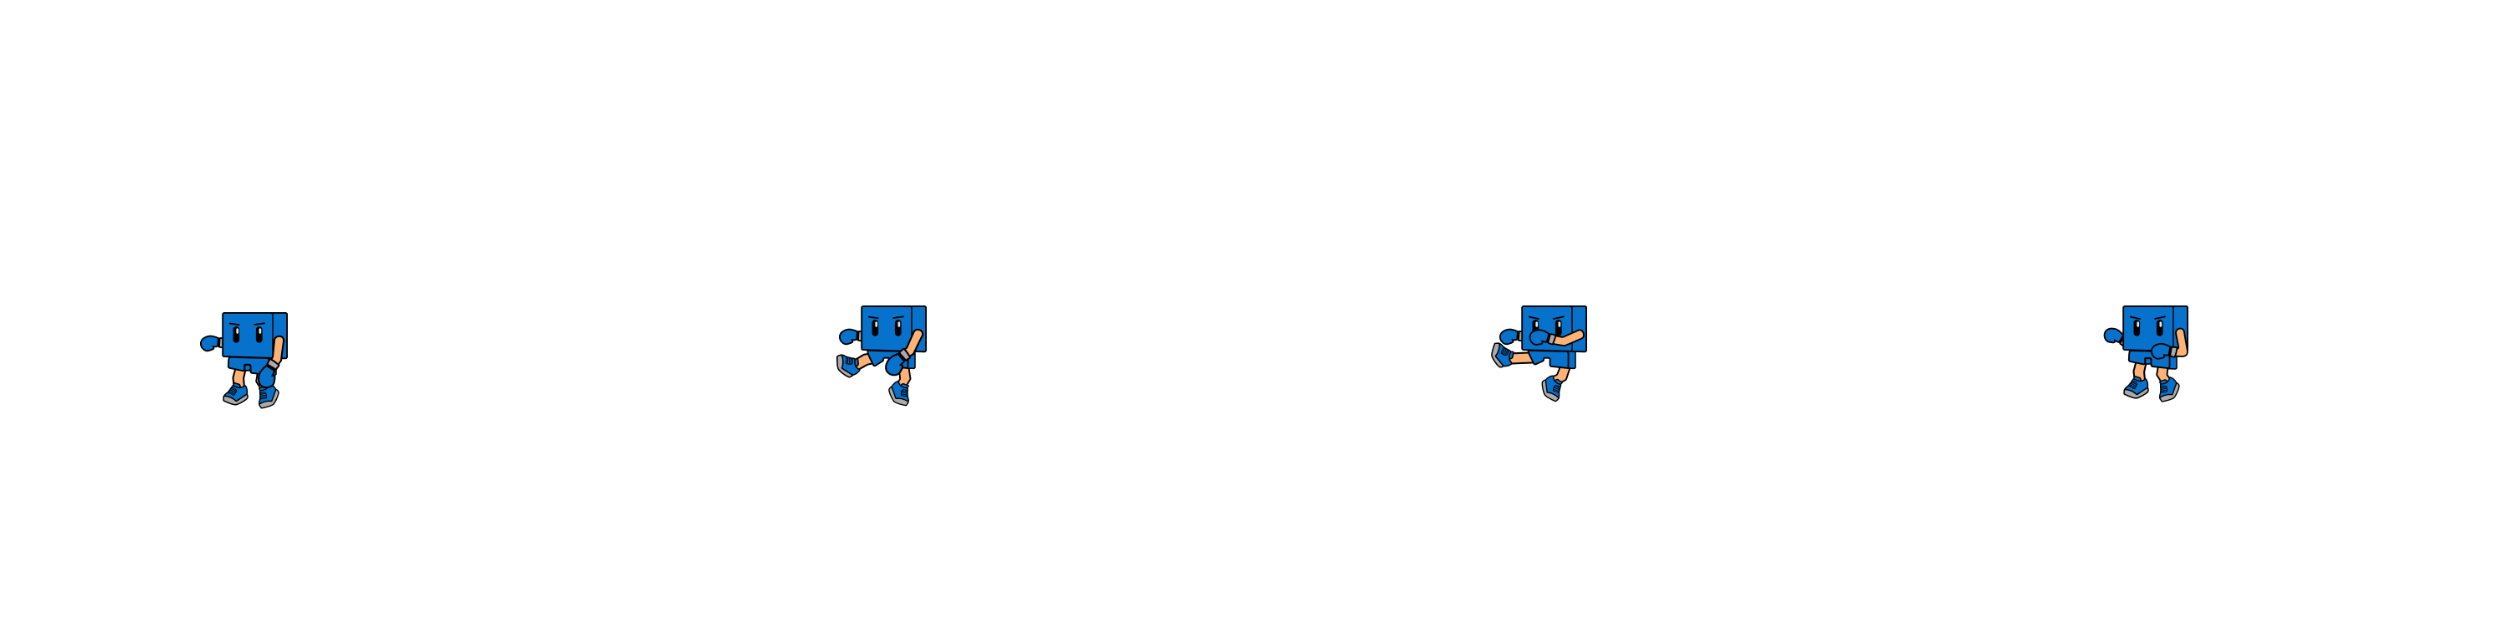
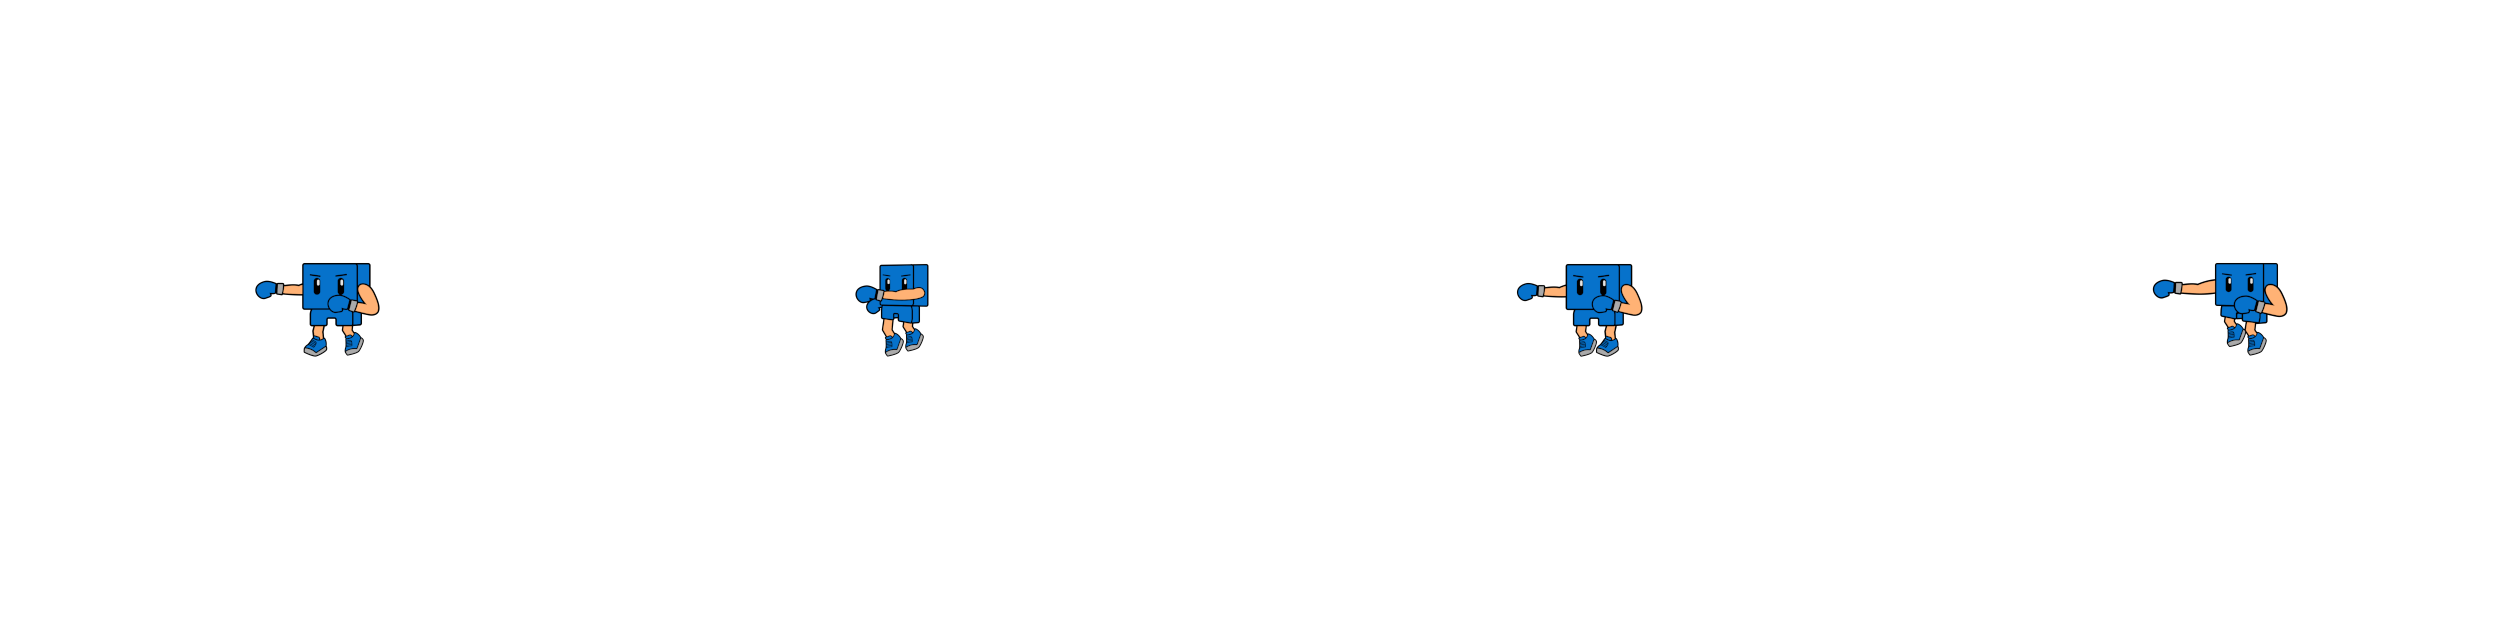
Change sprites to bigger arms

diff --git a/website/index.js b/website/index.js
@@ -149,8 +149,8 @@ const player = new Fighter({
             framesMax: 2
         },
         attack1: {
-            imageSrc: './static/img/zerto/UppercutCross.png',
-            framesMax: 6
+            imageSrc: './static/img/zerto/AtaqueR.png',
+            framesMax: 4
         },
         attack2: {
             imageSrc: './static/img/zerto/Attack2.png',
@@ -169,7 +169,7 @@ const player = new Fighter({
             framesMax: 6
         },
         uppercut: {
-            imageSrc: './static/img/zerto/UppercutCross.png',
+            imageSrc: './static/img/zerto/UpperCutCross.png',
             framesMax: 6
         }
     },
@@ -218,7 +218,7 @@ const enemy = new Fighter({
             framesMax: 2
         },
         attack1: {
-            imageSrc: './static/img/kenji/Attack1.png',
+            imageSrc: './static/img/kenji/Ataque.png',
             framesMax: 4
         },
         attack2: {
@@ -238,7 +238,7 @@ const enemy = new Fighter({
             framesMax: 6
         },
         uppercut: {
-            imageSrc: './static/img/kenji/UppercutCross.png',
+            imageSrc: './static/img/kenji/UpperCutCross.png',
             framesMax: 6
         }
     },
@@ -275,7 +275,6 @@ function animate(timestamp) {
     window.requestAnimationFrame(animate);
     const deltaTime = timestamp - lastTime;
 
-    console.log(deltaTime);
     if (deltaTime >= timeStep) {
         lastTime = timestamp;
 
@@ -487,9 +486,9 @@ function enemyAI() {
         }
 
         // Occasionally jump
-        if (Math.random() < 0.02 && enemy.position.y >= canvas.height - 96 - enemy.height) { // Check if on ground
-            enemy.velocity.y = -15; // Trigger jump
-        }
+        // if (Math.random() < 0.02 && enemy.position.y >= canvas.height - 96 - enemy.height) { // Check if on ground
+        //     enemy.velocity.y = -15; // Trigger jump
+        // }
 
         // Attack and block logic
         if (!enemy.isAttacking && Math.random() < 0.05 && !enemy.isBlocking) {
